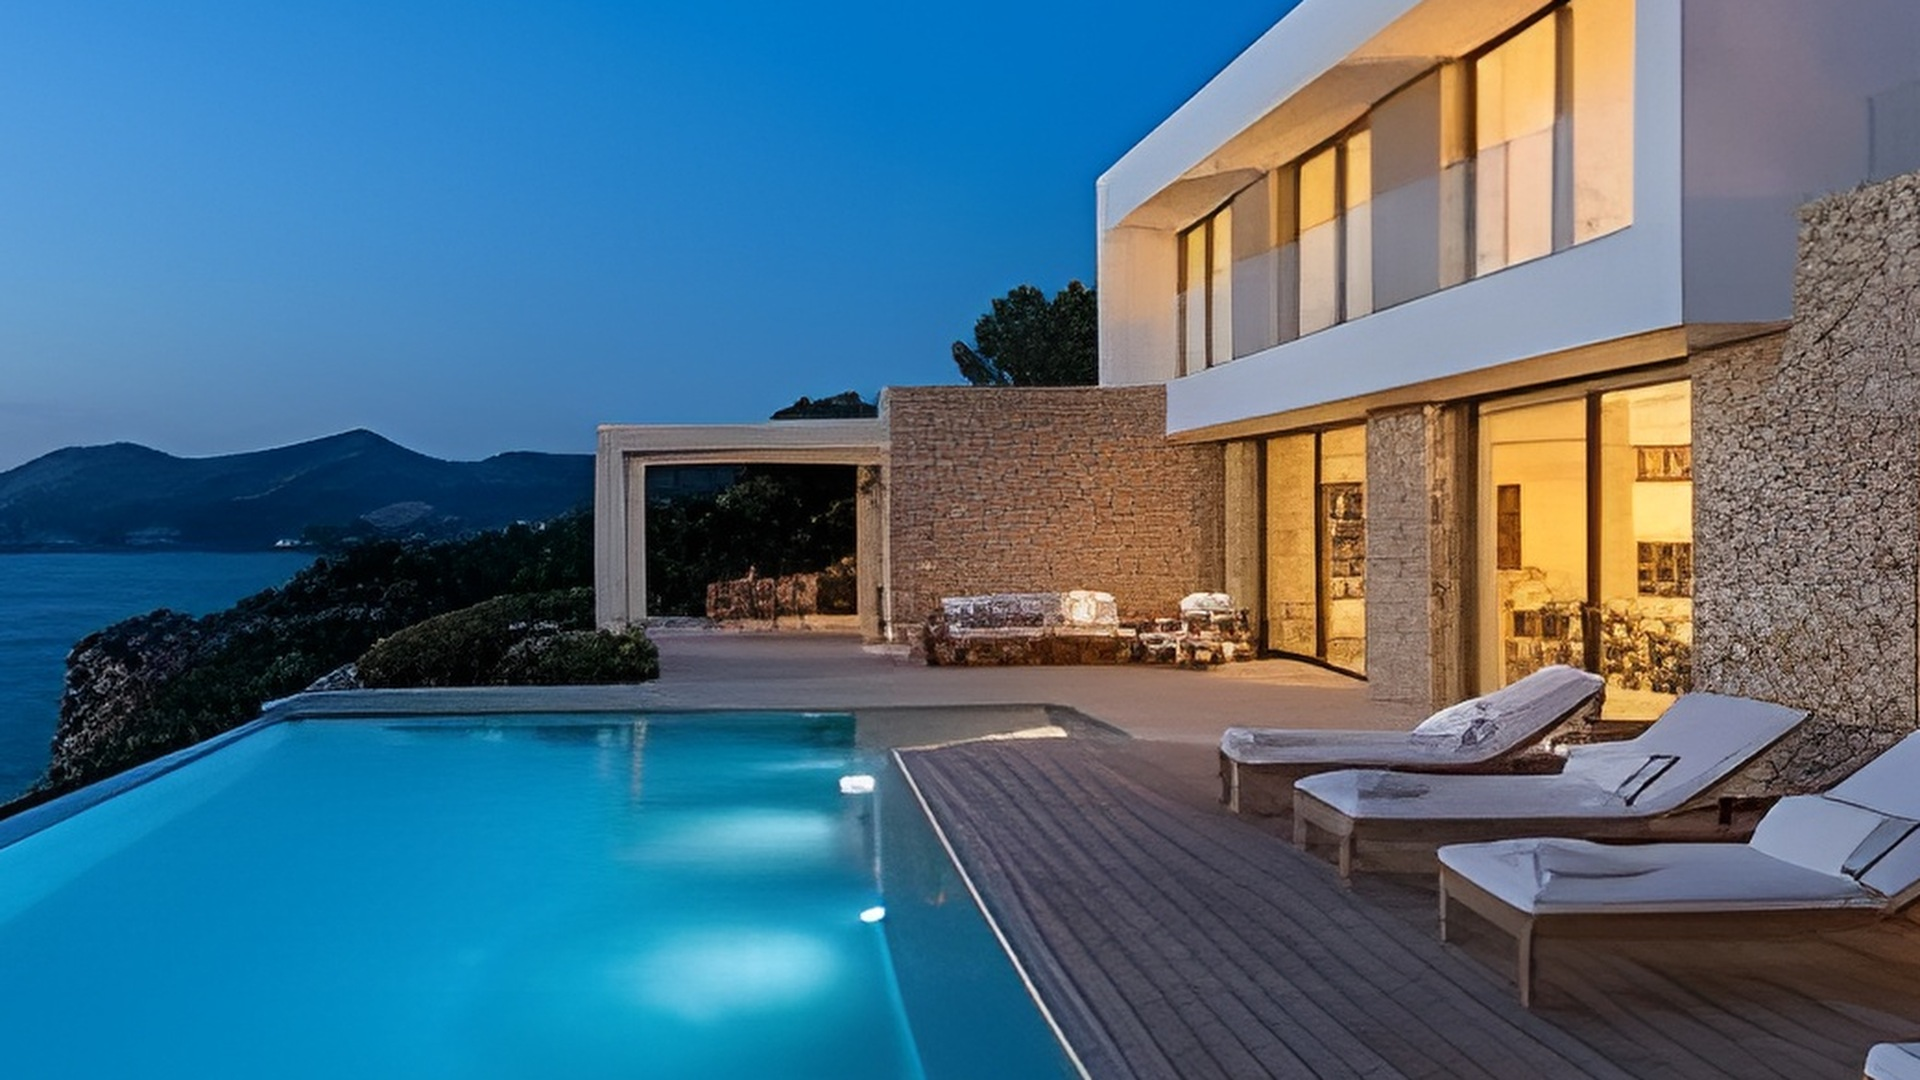
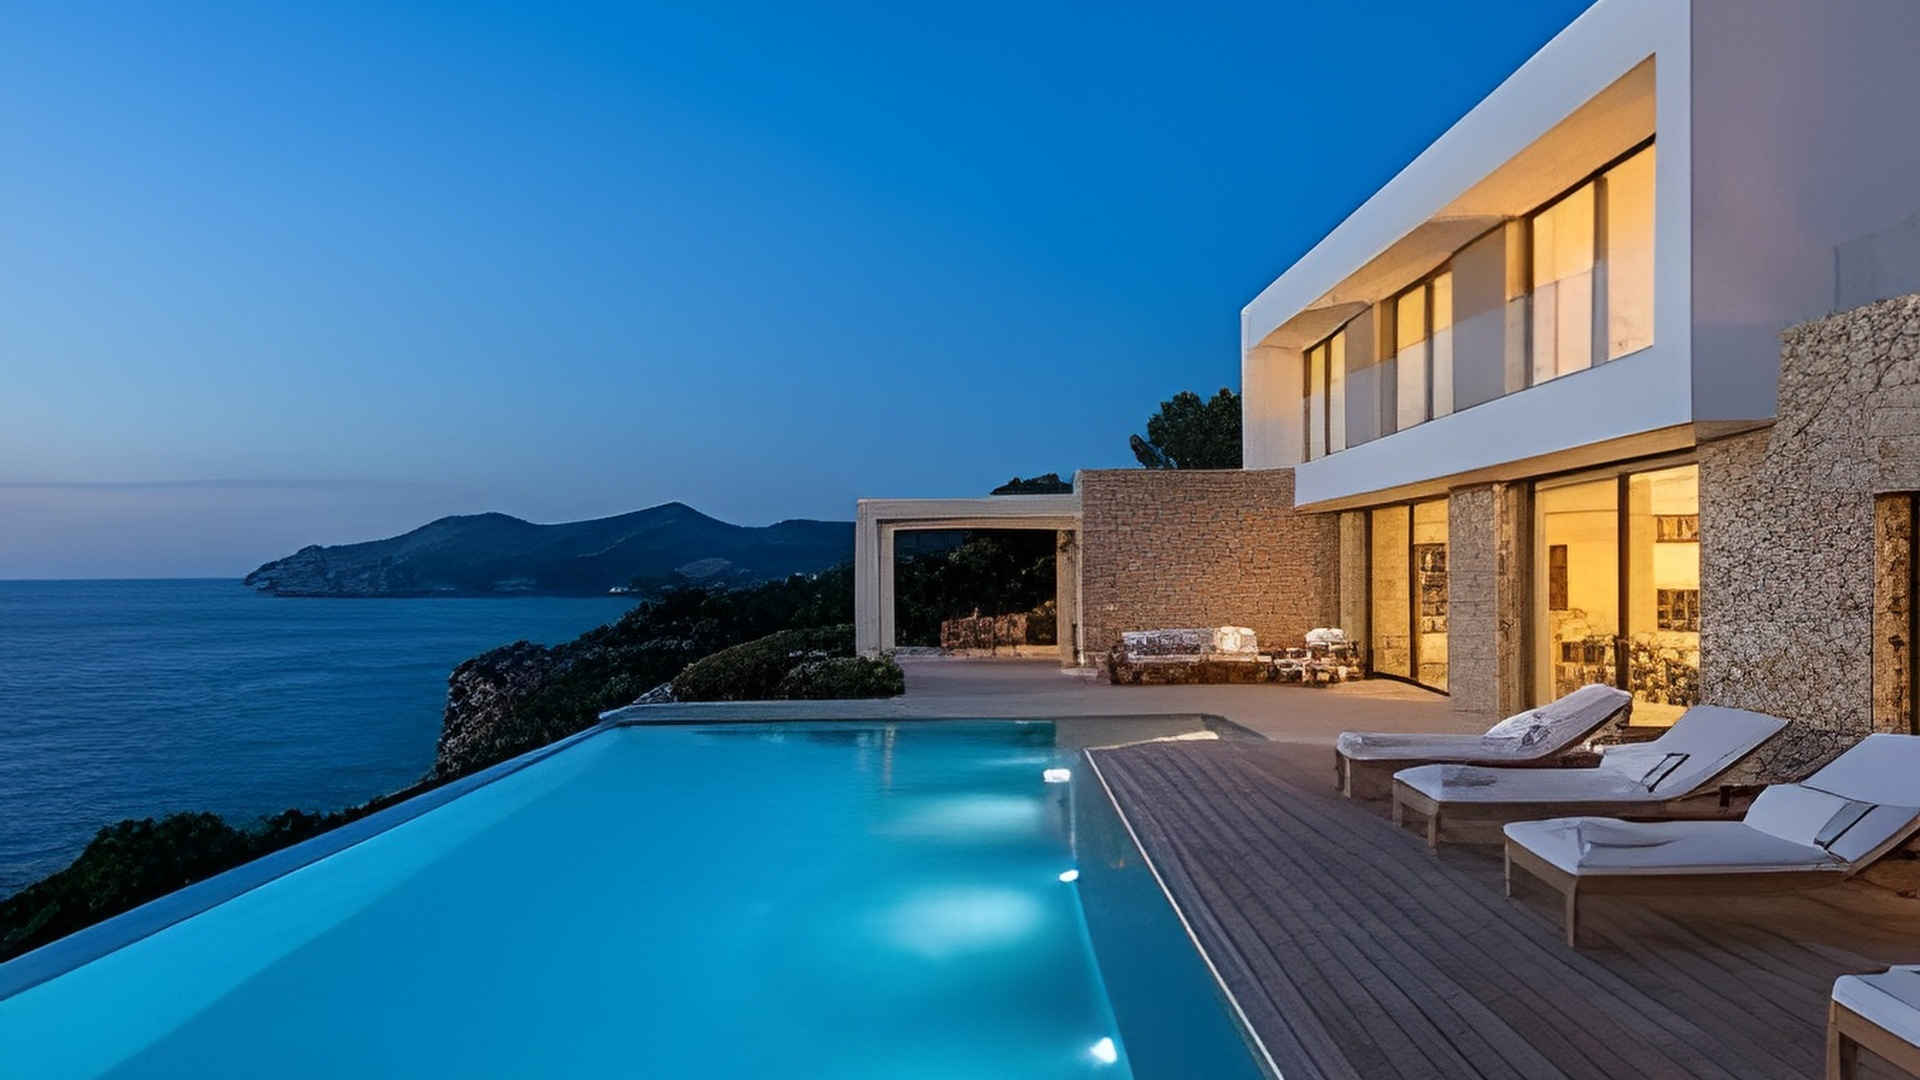
Pair two different photos per Kling clip so the camera really moves
Start and end frames from the same photo only gave Kling a digital zoom. Each
clip now runs between two photos of the villa: cliff view down onto the pool
deck (V1), kitchen into the living room (V2), living room out to the breakfast
terrace (V3), through the bathroom to the stone tub (V4), and the pool deck
from day into dusk (V5). P2 becomes photo #2 (the deck by day) so the split
screen shows the photo against its film turning to dusk; photo #11 is now
V5's end frame. Photos #5, #7, #10 and #11 are upscaled for the frames.

Claude-Session: https://claude.ai/code/session_01AeV2FGzB3o6i8B6mF13758

diff --git a/video/tools/make_kling_frames.py b/video/tools/make_kling_frames.py
@@ -1,6 +1,7 @@
 #!/usr/bin/env python3
-"""Kling start/end frames for the five films: crops of the 4x upscaled villa photos,
-resized to 1080x1920 (9:16) and 1920x1080 (16:9). Start -> end is the camera move.
+"""Kling start/end frames for the five films. Start and end are two different
+photos of the villa (crops of the 4x upscales), so Kling has to move the camera
+from one place to the other. Resized to 1080x1920 (9:16) and 1920x1080 (16:9).
 
 Usage: python3 tools/make_kling_frames.py ../assets/video-src ../assets/video-src/kling   (needs opencv-python)
 """
@@ -9,26 +10,35 @@ import sys
 import cv2
 
 V, OUT = sys.argv[1], sys.argv[2]
-SRC = {"v1": V + "/p1-listing-photo.jpg", "v2": V + "/kling/tile-03-x4.jpg", "v3": V + "/kling/tile-04-x4.jpg",
-       "v4": V + "/kling/tile-06-x4.jpg", "v5": V + "/p2-split-photo.jpg"}
-# (x, y, w, h) in the source; start -> end is the camera move
-RECTS = {
-    "v1": {"9x16": [(416, 0, 544, 968), (496, 224, 418, 744)],      # glide forward + down to the pool (start = end of the push into P1)
-           "16x9": [(0, 97, 1376, 774), (231, 302, 1058, 595)]},
-    "v2": {"9x16": [(268, 0, 544, 968), (351, 98, 418, 744)],       # dolly forward to the windows
-           "16x9": [(0, 104, 1352, 760), (120, 177, 1040, 585)]},
-    "v3": {"9x16": [(640, 0, 544, 968), (290, 0, 544, 968)],        # lateral glide right -> left, ending on the window
-           "16x9": [(356, 197, 1020, 574), (0, 197, 1020, 574)]},
-    "v4": {"9x16": [(432, 233, 436, 775), (392, 0, 567, 1008)],     # pull back from the breakfast table
-           "16x9": [(160, 423, 1040, 585), (0, 124, 1352, 760)]},
-    "v5": {"9x16": [(403, 0, 546, 972), (550, 186, 420, 747)],      # glide along the pool to the villa (start = P2 in the split)
-           "16x9": [(0, 106, 1352, 760), (280, 227, 1040, 585)]},
+# collage photo number -> its 4x upscale
+SRC = {1: V + "/p1-listing-photo.jpg", 2: V + "/p2-split-photo.jpg", 3: V + "/kling/tile-03-x4.jpg",
+       5: V + "/kling/tile-05-x4.jpg", 6: V + "/kling/tile-06-x4.jpg", 7: V + "/kling/tile-07-x4.jpg",
+       10: V + "/kling/tile-10-x4.jpg", 11: V + "/kling/tile-11-x4.jpg"}
+# slot -> format -> (start, end), each (photo, (x, y, w, h)) in that photo's upscale
+CLIPS = {
+    # from the cliff down onto the pool deck; starts where the push into P1 ends
+    "v1": {"9x16": [(1, (416, 0, 544, 968)), (2, (488, 0, 544, 968))],
+           "16x9": [(1, (0, 97, 1376, 774)), (2, (0, 104, 1352, 760))]},
+    # from the kitchen into the living room
+    "v2": {"9x16": [(5, (809, 0, 567, 1008)), (3, (268, 0, 544, 968))],
+           "16x9": [(5, (0, 117, 1376, 774)), (3, (0, 104, 1352, 760))]},
+    # from the living room out to the breakfast table under the pergola
+    "v3": {"9x16": [(3, (808, 0, 544, 968)), (6, (392, 0, 567, 1008))],
+           "16x9": [(3, (0, 104, 1352, 760)), (6, (0, 124, 1352, 760))]},
+    # through the bathroom to the stone tub at the window
+    "v4": {"9x16": [(7, (640, 0, 567, 1008)), (10, (520, 0, 546, 972))],
+           "16x9": [(7, (0, 124, 1352, 760)), (10, (0, 106, 1352, 760))]},
+    # day turns to dusk on the pool deck; starts on P2 as the split screen frames it
+    "v5": {"9x16": [(2, (404, 0, 544, 968)), (11, (403, 0, 546, 972))],
+           "16x9": [(2, (0, 104, 1352, 760)), (11, (0, 106, 1352, 760))]},
 }
 SIZE = {"9x16": (1080, 1920), "16x9": (1920, 1080)}
-for slot, fmts in RECTS.items():
-    im = cv2.imread(SRC[slot]); H, W = im.shape[:2]
+images = {k: cv2.imread(p) for k, p in SRC.items()}
+for slot, fmts in CLIPS.items():
     for fmt, pair in fmts.items():
-        for tag, (x, y, w, h) in zip(("start", "end"), pair):
+        for tag, (photo, (x, y, w, h)) in zip(("start", "end"), pair):
+            im = images[photo]
+            H, W = im.shape[:2]
             assert 0 <= x and 0 <= y and x + w <= W and y + h <= H, (slot, fmt, tag, W, H)
             out = cv2.resize(im[y:y + h, x:x + w], SIZE[fmt], interpolation=cv2.INTER_LANCZOS4)
             cv2.imwrite(f"{OUT}/{slot}-{fmt}-{tag}.jpg", out, [cv2.IMWRITE_JPEG_QUALITY, 93])

diff --git a/video/KLING_SHOTS.md b/video/KLING_SHOTS.md
@@ -1,41 +1,44 @@
 # Kling shot list for the ad
 
 Five films, each made twice (9:16 for the three vertical ads, 16:9 for the
-landscape ad) with Kling's **start & end frame** image-to-video mode, so the
-camera move is pinned at both ends: one slow, stabilised move, nothing added.
-Highest quality (Kling 3.0, 1080p / professional; if 3.0 offers no end frame,
-the newest Kling model that does), no audio.
+landscape ad) with Kling's **start & end frame** image-to-video mode. Start and
+end are two *different* photos of the villa, so Kling has to fly the camera from
+one place to the other: a real walkthrough move, pinned at both ends, nothing
+added. Highest quality (Kling 3.0, 1080p / professional; if 3.0 offers no end
+frame, the newest Kling model that does), no audio.
 
 The photos are AI-generated and exist only as the owner's collage
-(~350 × 250 px each, all 12 in `../assets/video-src/collage/`), so every frame
-is a crop of a 4× upscale (Real-ESRGAN x4plus, see `../assets/CREDITS.md`),
-resized to 1080 × 1920 or 1920 × 1080. V1 starts exactly where the push into P1
-ends, and V5 starts on P2 as the split screen frames it (the ad shows every slot
-with a centred `object-fit: cover`).
+(~350 × 250 px each, all 12 in `../assets/video-src/collage/`, numbered row by
+row), so every frame is a crop of a 4× upscale (Real-ESRGAN x4plus, see
+`../assets/CREDITS.md`), resized to 1080 × 1920 or 1920 × 1080. V1 starts exactly
+where the push into P1 ends, and V5 starts on P2 (photo #2) as the split screen
+frames it (the ad shows every slot with a centred `object-fit: cover`). The crop
+rectangles live in `tools/make_kling_frames.py`.
 
 ## Frames → output files
 
 All paths under `../assets/video-src/`; frames in `kling/`, outputs next to the photos.
 
-| Slot | Photo | Move | Length | 9:16 frames → file | 16:9 frames → file |
-| ---- | ----- | ---- | ------ | ------------------ | ------------------ |
-| V1 | #1 villa on the cliff (P1) | glide forward and down to the pool | 5 s | `v1-9x16-start/end.jpg` → `v1-hero-film.mp4` | `v1-16x9-start/end.jpg` → `v1-hero-film-16x9.mp4` |
-| V2 | #3 living room | dolly forward to the windows | 5 s | `v2-9x16-start/end.jpg` → `v2-cut-a.mp4` | `v2-16x9-start/end.jpg` → `v2-cut-a-16x9.mp4` |
-| V3 | #4 bedroom | lateral glide right → left, ending on the window | 5 s | `v3-9x16-start/end.jpg` → `v3-cut-b.mp4` | `v3-16x9-start/end.jpg` → `v3-cut-b-16x9.mp4` |
-| V4 | #6 breakfast terrace | pull back from the table | 5 s | `v4-9x16-start/end.jpg` → `v4-cut-c.mp4` | `v4-16x9-start/end.jpg` → `v4-cut-c-16x9.mp4` |
-| V5 | #11 villa at dusk (P2) | low glide along the pool to the villa | 10 s | `v5-9x16-start/end.jpg` → `v5-split-film.mp4` | `v5-16x9-start/end.jpg` → `v5-split-film-16x9.mp4` |
+| Slot | Start → end photo | Move | Length | 9:16 frames → file | 16:9 frames → file |
+| ---- | ----------------- | ---- | ------ | ------------------ | ------------------ |
+| V1 | #1 villa on the cliff (P1) → #2 pool deck | descend from the cliff onto the pool deck | 5 s | `v1-9x16-start/end.jpg` → `v1-hero-film.mp4` | `v1-16x9-start/end.jpg` → `v1-hero-film-16x9.mp4` |
+| V2 | #5 kitchen → #3 living room | walk from the kitchen into the living room | 5 s | `v2-9x16-start/end.jpg` → `v2-cut-a.mp4` | `v2-16x9-start/end.jpg` → `v2-cut-a-16x9.mp4` |
+| V3 | #3 living room → #6 breakfast terrace | out through the glass doors to the table under the pergola | 5 s | `v3-9x16-start/end.jpg` → `v3-cut-b.mp4` | `v3-16x9-start/end.jpg` → `v3-cut-b-16x9.mp4` |
+| V4 | #7 bathroom → #10 bathroom | through the bathroom to the stone tub at the window | 5 s | `v4-9x16-start/end.jpg` → `v4-cut-c.mp4` | `v4-16x9-start/end.jpg` → `v4-cut-c-16x9.mp4` |
+| V5 | #2 pool deck by day (P2) → #11 the same deck at dusk | slow push along the pool while day turns to dusk | 10 s | `v5-9x16-start/end.jpg` → `v5-split-film.mp4` | `v5-16x9-start/end.jpg` → `v5-split-film-16x9.mp4` |
 
 Where they play: V1 under "Same photo. 6 seconds later." (4.1 s used), V2–V4
-under the three "No …" cuts (2 s each), V5 in the split screen and behind the
-price card (9.5 s). The crop rectangles live in `tools/make_kling_frames.py`.
+under the three "No …" cuts (2 s each, so the walkthrough reads kitchen → living
+room → terrace → bathroom), V5 in the split screen, photo #2 against its film,
+and behind the price card (9.5 s).
 
 ## Prompts (one per clip, the same for both formats)
 
-- **V1**: Smooth cinematic drone shot. The camera glides slowly forward and slightly down from the cliff toward the infinity pool and the villa terrace, in one continuous move at constant speed, from the first frame to the last frame. Stabilized, no shake. Keep the villa, pool, rocks, plants, sea and light exactly as in the images. No people, no new objects, no text.
-- **V2**: Smooth cinematic gimbal shot at eye level. The camera dollies slowly forward through the living room toward the floor-to-ceiling windows and the sea view, in one continuous move at constant speed, from the first frame to the last frame. Keep the furniture, materials, colors and light exactly as in the images. No people, no new objects, no text.
-- **V3**: Smooth cinematic gimbal shot at eye level. The camera glides slowly sideways from right to left across the bedroom, parallel to the bed, ending on the large window with the sea view, in one continuous move at constant speed, from the first frame to the last frame. Keep the bed, curtains, lamps, materials and light exactly as in the images. No people, no new objects, no text.
-- **V4**: Smooth cinematic gimbal shot at eye level. The camera pulls back slowly from the breakfast table under the bougainvillea pergola, revealing more of the terrace, the pool and the sea, in one continuous move at constant speed, from the first frame to the last frame. Keep the food, table, flowers, pool and light exactly as in the images. No people, no new objects, no text.
-- **V5**: Smooth cinematic drone shot at dusk. The camera glides slowly forward, low over the illuminated infinity pool, toward the villa with its warm lit windows, in one continuous move at constant speed, from the first frame to the last frame. Stabilized, no shake. Keep the villa, pool lights, loungers, sea and sky exactly as in the images. No people, no new objects, no text.
+- **V1**: Smooth cinematic drone shot. The camera descends slowly from high above the cliff and glides down onto the wooden pool deck of the villa, ending at deck level beside the sun loungers and the infinity pool, in one continuous move. Stabilized, constant speed, no cuts. Keep the villa, pool, deck, loungers, sea and daylight exactly as in the images. No people, no new objects, no text.
+- **V2**: Smooth cinematic gimbal walkthrough at eye level. The camera moves slowly from the kitchen into the bright living room, turning gently toward the sofa, the large windows and the sea view, in one continuous move. Constant speed, no cuts. Keep the furniture, materials, colors and light exactly as in the images. No people, no new objects, no text.
+- **V3**: Smooth cinematic gimbal walkthrough at eye level. The camera moves slowly from the living room out through the open glass doors onto the terrace, arriving at the breakfast table under the bougainvillea pergola with the pool and the sea behind it, in one continuous move. Constant speed, no cuts. Keep everything exactly as in the images. No people, no new objects, no text.
+- **V4**: Smooth cinematic gimbal walkthrough at eye level. The camera glides slowly through the bright bathroom, past the glass shower, to the freestanding stone bathtub in front of the large window with cacti and the sea, in one continuous move. Constant speed, no cuts. Keep the materials, fixtures and light exactly as in the images. No people, no new objects, no text.
+- **V5**: Smooth cinematic time-lapse with a slow camera push. The camera moves slowly forward along the infinity pool toward the villa while day turns into dusk: the sky deepens to blue, the pool lights and the warm window lights switch on. One continuous move, constant speed, no cuts. Keep the villa, pool, deck, loungers and sea exactly as in the images. No people, no new objects, no text.
 
 ## Negative prompt (all clips, where the app has the field)
 

diff --git a/assets/CREDITS.md b/assets/CREDITS.md
@@ -12,10 +12,10 @@ Add a row whenever a file lands in `assets/video-src/`.
 | V2 | `v2-cut-a.mp4` | — | — | — | **missing** (placeholder renders) |
 | V3 | `v3-cut-b.mp4` | — | — | — | **missing** (placeholder renders) |
 | V4 | `v4-cut-c.mp4` | — | — | — | **missing** (placeholder renders) |
-| P2 | `p2-split-photo.jpg` | The owner's villa photo #11 (collage row 3, 3rd; `collage/tile-11.png`, 346 × 251 px), sent 2026-10-22. Upscaled 4× to 1352 × 972 with Real-ESRGAN; nothing added or removed. | As P1. | **Yes**: "AI sample" label on | in the renders |
+| P2 | `p2-split-photo.jpg` | The owner's villa photo #2, the pool deck by day (collage row 1, 2nd; `collage/tile-02.png`), sent 2026-10-22. Upscaled 4× to 1352 × 968 with Real-ESRGAN; nothing added or removed. (Until 2026-10-23 P2 was photo #11, the deck at dusk, now V5's end frame.) | As P1. | **Yes**: "AI sample" label on | from the next render on |
 | V5 | `v5-split-film.mp4` | — | — | — | **missing** (placeholder renders) |
 | — | `collage/tile-01.png` … `tile-12.png` | The 12 villa photos cut out of the owner's collage (2026-10-22), unchanged. Kept as the source for the Kling clips. | As P1. | **Yes** | not used directly |
-| — | `kling/tile-03-x4.jpg`, `tile-04-x4.jpg`, `tile-06-x4.jpg`; `kling/v1…v5-9x16-start/end.jpg`, `-16x9-start/end.jpg` | Photos #3, #4, #6 upscaled 4× with Real-ESRGAN, and the Kling start and end frames: 9:16 and 16:9 crops of P1, those three, and P2, resized with Lanczos (`video/tools/make_kling_frames.py`). Cropped and scaled only, nothing added. | As P1. | **Yes** | inputs for the Kling clips, not used by the ad |
+| — | `kling/tile-03…11-x4.jpg`; `kling/v1…v5-9x16-start/end.jpg`, `-16x9-start/end.jpg` | Photos #3, #4, #5, #6, #7, #10 and #11 upscaled 4× with Real-ESRGAN, and the Kling start and end frames: 9:16 and 16:9 crops of two different photos per clip, resized with Lanczos (`video/tools/make_kling_frames.py`). Cropped and scaled only, nothing added. | As P1. | **Yes** | inputs for the Kling clips, not used by the ad |
 
 **Upscaling.** Real-ESRGAN x4plus (Xintao Wang et al., github.com/xinntao/Real-ESRGAN,
 release v0.2.5.0 ncnn model), BSD-3-Clause, run once on CPU with the `ncnn`

diff --git a/video/STORYBOARD.md b/video/STORYBOARD.md
@@ -84,7 +84,7 @@ anchor while the picture changes underneath.
 - src: compositions/s45-split-offer.html
 - transition_in: cut (12.0)
 - scene: Full-bleed photo; a divider sweeps in and turns the right half into the film, then the whole frame.
-- media: P2 (photo) | V5 (film made from P2)
+- media: P2 (photo #2, the pool deck by day) | V5 (film from P2 that turns to dusk, ending on photo #11)
 - motion: comparison-split (blueprint), nudge-curve divider sweep
 - copy: "Your photos," / **"made cinematic."** (13.0 s)
 - vo: "Your photos, made cinematic." (13.0 s) · "Delivered in days, not weeks." (15.3 s, over the wipe to the film)

diff --git a/assets/video-src/README.md b/assets/video-src/README.md
@@ -24,7 +24,7 @@ in the bottom-right corner for as long as that file is on screen. Set the flag
 to match how each file was really made.
 
 **What is here now (2026-10-22).** `p1-listing-photo.jpg` and
-`p2-split-photo.jpg` are villa photos #1 and #11 from the owner's collage,
+`p2-split-photo.jpg` are villa photos #1 and #2 from the owner's collage,
 upscaled 4× with Real-ESRGAN. `collage/` holds all 12 photos as cut from the
 collage (about 350 × 250 px each); `kling/` holds the Kling start and end frames
 (9:16 and 16:9 per film) and the upscaled photos 3, 4 and 6. The ad never reads
